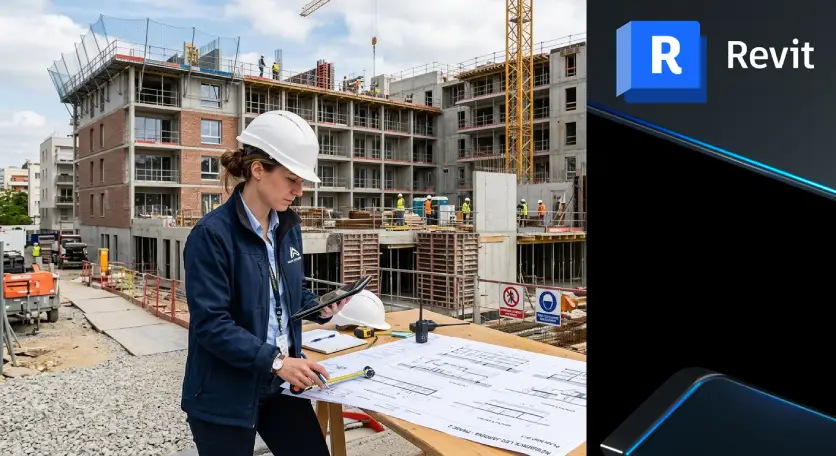
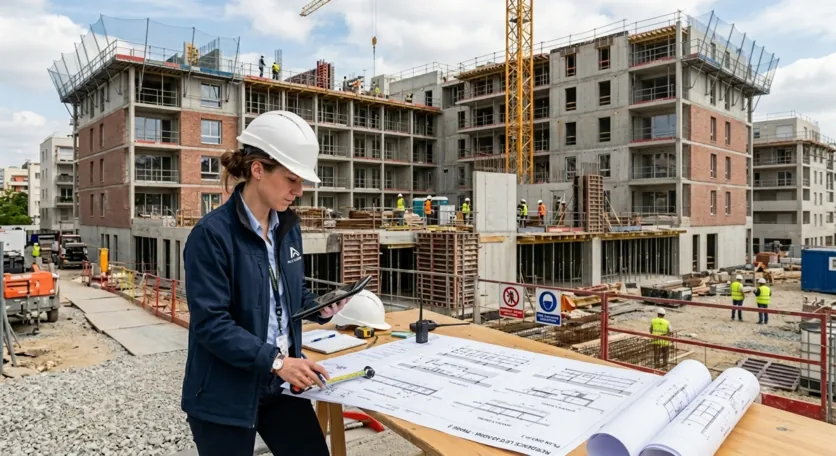
Image dediee pour la page Revit

diff --git a/fr/developpement-revit/index.html b/fr/developpement-revit/index.html
@@ -61,7 +61,7 @@
 <script type="application/ld+json">{"@context":"https://schema.org","@type":"BreadcrumbList","itemListElement":[{"@type":"ListItem","position":1,"name":"WIIP","item":"https://wiip.fr/fr/"},{"@type":"ListItem","position":2,"name":"Développement Revit sur mesure","item":"https://wiip.fr/fr/developpement-revit"}]}</script>
 
 <div class="row mt-4 justify-content-center"><div class="col"><h1 id="developpement-revit-sur-mesure">Développement Revit sur mesure</h1>
-<p><img src="/img/revit.webp" alt="WIIP" /></p>
+<p><img src="/img/revit.webp" alt="Développement Revit sur mesure" /></p>
 <p>J'accompagne les bureaux d'études et les entreprises du BTP dans le développement de <strong>compléments Revit sur mesure</strong>. Mon objectif : automatiser les tâches répétitives de votre maquette BIM, fiabiliser vos processus, améliorer le confort de vos utilisateurs et réduire le risque d'erreurs.</p>
 <p>Revit est au cœur du flux de travail BIM. Des développements sur mesure permettent d'en tirer le maximum : extraction de données, génération automatique de documents, vérifications de conformité...</p>
 <hr />

diff --git a/en/revit-development/index.html b/en/revit-development/index.html
@@ -61,7 +61,7 @@
 <script type="application/ld+json">{"@context":"https://schema.org","@type":"BreadcrumbList","itemListElement":[{"@type":"ListItem","position":1,"name":"WIIP","item":"https://wiip.fr/en/"},{"@type":"ListItem","position":2,"name":"Custom Revit Development","item":"https://wiip.fr/en/revit-development"}]}</script>
 
 <div class="row mt-4 justify-content-center"><div class="col"><h1 id="custom-revit-development">Custom Revit Development</h1>
-<p><img src="/img/revit.webp" alt="WIIP" /></p>
+<p><img src="/img/revit.webp" alt="Custom Revit development" /></p>
 <p>I help engineering firms and construction companies develop <strong>custom Revit add-ins</strong>. My goal: automate repetitive tasks in your BIM model, make your processes more reliable, improve user comfort and reduce the risk of errors.</p>
 <p>Revit is at the heart of the BIM workflow. Custom developments allow you to get the most out of it: data extraction, automatic document generation, compliance checks...</p>
 <hr />

diff --git a/About/index.html b/About/index.html
@@ -1,4 +1,4 @@
-<!DOCTYPE html>
+<!DOCTYPE html>
 <html lang="fr">
 <head>
     <meta charset="utf-8">

diff --git a/Realizations/index.html b/Realizations/index.html
@@ -1,4 +1,4 @@
-<!DOCTYPE html>
+<!DOCTYPE html>
 <html lang="fr">
 <head>
     <meta charset="utf-8">

diff --git a/TermsOfUse/index.html b/TermsOfUse/index.html
@@ -1,4 +1,4 @@
-<!DOCTYPE html>
+<!DOCTYPE html>
 <html lang="fr">
 <head>
     <meta charset="utf-8">

diff --git a/blog/index.html b/blog/index.html
@@ -1,4 +1,4 @@
-<!DOCTYPE html>
+<!DOCTYPE html>
 <html lang="fr">
 <head>
     <meta charset="utf-8">

diff --git a/en/blog/espaces-de-nom-vlx/index.html b/en/blog/espaces-de-nom-vlx/index.html
@@ -1,4 +1,4 @@
-<!DOCTYPE html>
+<!DOCTYPE html>
 <html lang="fr">
 <head>
     <meta charset="utf-8">

diff --git a/en/developpement-aps/index.html b/en/developpement-aps/index.html
@@ -1,4 +1,4 @@
-<!DOCTYPE html>
+<!DOCTYPE html>
 <html lang="fr">
 <head>
     <meta charset="utf-8">

diff --git a/en/developpement-autocad/index.html b/en/developpement-autocad/index.html
@@ -1,4 +1,4 @@
-<!DOCTYPE html>
+<!DOCTYPE html>
 <html lang="fr">
 <head>
     <meta charset="utf-8">

diff --git a/en/developpement-fao/index.html b/en/developpement-fao/index.html
@@ -1,4 +1,4 @@
-<!DOCTYPE html>
+<!DOCTYPE html>
 <html lang="fr">
 <head>
     <meta charset="utf-8">

diff --git a/en/developpement-inventor/index.html b/en/developpement-inventor/index.html
@@ -1,4 +1,4 @@
-<!DOCTYPE html>
+<!DOCTYPE html>
 <html lang="fr">
 <head>
     <meta charset="utf-8">

diff --git a/en/developpement-revit/index.html b/en/developpement-revit/index.html
@@ -1,4 +1,4 @@
-<!DOCTYPE html>
+<!DOCTYPE html>
 <html lang="fr">
 <head>
     <meta charset="utf-8">
